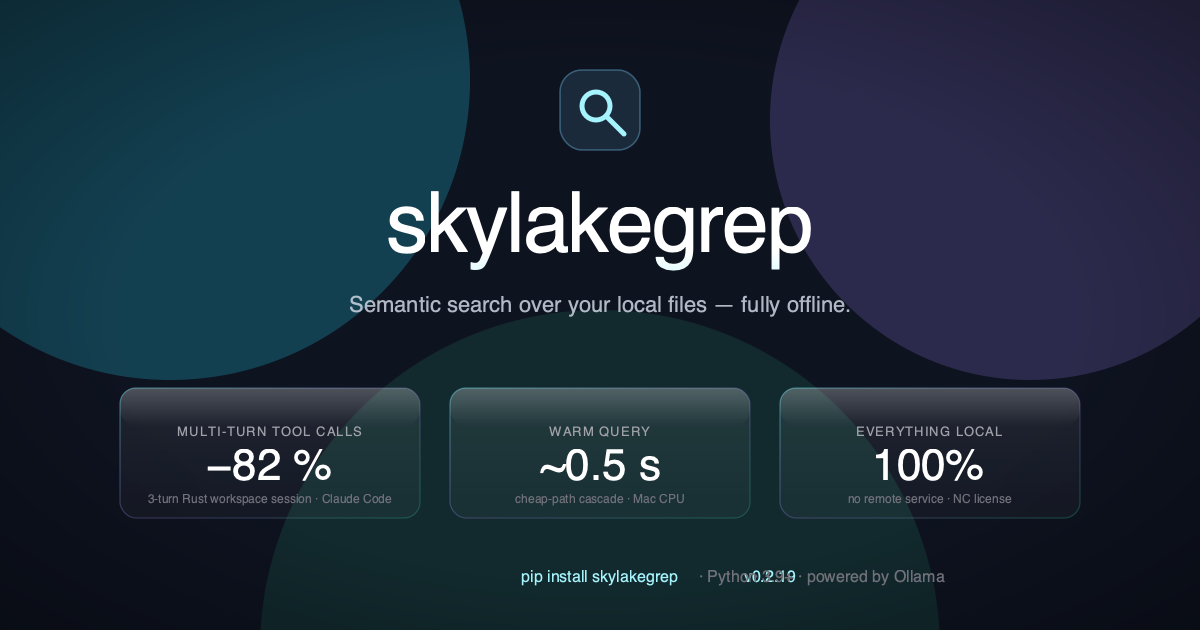
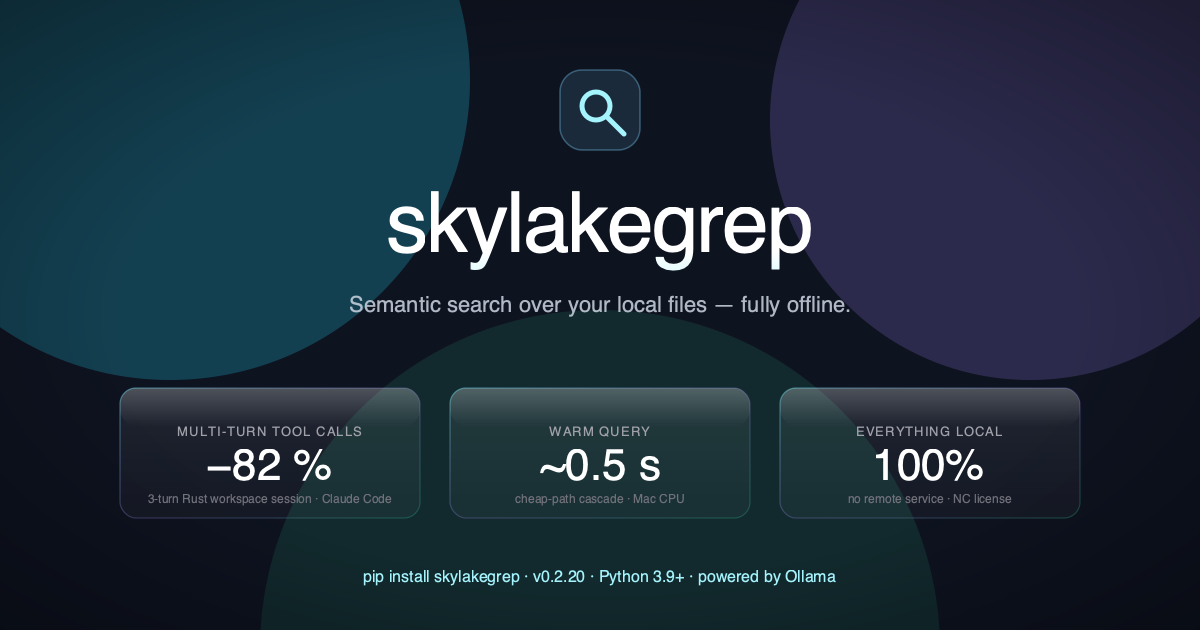
release: v0.2.20 — hero card geometry fix + raster-stable pill row
Documentation-surface release. Zero code path changed.

Reviewer screenshot of the live hero showed two visible defects:

1. Result row 3 (utils/jwt.py :22-39) had its line-range at x=100,
   colliding with the path text (utils/jwt.py occupies x≈16-106).
   Visually rendered as "utils/jwt.py22-39". Moved range to x=120,
   matching the +15px gap on result-2's auth/middleware.py row.

2. Result card 3 overflowed the terminal frame's bottom border by
   ~6 px. Card height was 358; result 3 ends at card_y=64+220+80=364.
   Bumped card height 358→380, viewBox height 600→620, bg + vignette
   rects updated. Result 3 now ends with a clean 16px bottom margin.

Three more issues caught while sweeping the rest of the SVGs:

3. cli-cheatsheet.svg had unescaped <query> in <desc> — XML-invalid
   in cairosvg. Switched to &lt;query&gt;.
4. configuration.svg had unescaped & in "Indexing & rerank" desc —
   same problem, switched to &amp;.
5. Hero + og-image pill rows mixed text content with leading tspans
   under text-anchor="middle". Browsers flow correctly per SVG spec,
   but cairosvg positions each tspan independently — visible overlap
   in the rasterized og-image.png ("PolyForm-NC-v0.2.20Python 3.9+").
   Social-preview crawlers (Twitter, FB, LinkedIn) fetch the cached
   PNG directly, so this matters for unfurls. Both pill rows
   flattened to plain text with cyan accent on the whole line.

All 6 SVG version pills bumped 0.2.19 → 0.2.20; og-image.png
re-rasterized.
[…]

Changed region(s): [[0.3083, 0.9048, 0.8017, 0.9349]]

diff --git a/docs/skylakegrep-0.2.20.html b/docs/skylakegrep-0.2.20.html
@@ -1,0 +1,174 @@
+<!doctype html>
+<html lang="en">
+ <head>
+ <meta charset="utf-8" />
+ <meta name="viewport" content="width=device-width, initial-scale=1" />
+ <meta name="description" content="skylakegrep v0.2.20 release notes" />
+ <meta name="theme-color" content="#13192a" />
+ <meta property="og:type" content="article" />
+ <meta property="og:title" content="v0.2.20 · skylakegrep" />
+ <meta property="og:description" content="skylakegrep v0.2.20 release notes" />
+ <meta property="og:image" content="https://danielchen26.github.io/skylakegrep/assets/og-image.png" />
+ <title>v0.2.20 · skylakegrep</title>
+ <link rel="icon" href="assets/favicon.svg" type="image/svg+xml" />
+ <link rel="preconnect" href="https://rsms.me/" />
+ <link rel="stylesheet" href="https://rsms.me/inter/inter.css" />
+ <link rel="stylesheet" href="styles.css?v=3.2.0" />
+ <style>
+   .docs-shell {{ grid-template-columns: var(--sidebar-w) minmax(0, 1fr) !important;
+                  max-width: 1500px !important; }}
+   .content {{ width: 100% !important; max-width: 100% !important; }}
+   .md-body {{ max-width: 880px; margin: 0 auto; padding: 16px 0 64px; color: var(--text); }}
+   .md-body h1 {{ font-size: clamp(28px, 4vw, 40px); margin: 0 0 16px;
+                  letter-spacing: -0.02em; color: var(--ink); font-weight: 700; }}
+   .md-body h2 {{ font-size: clamp(22px, 2.5vw, 28px); margin: 40px 0 12px;
+                  color: var(--ink); font-weight: 600; letter-spacing: -0.015em;
+                  padding-top: 8px; border-top: 1px solid var(--rule-faint); }}
+   .md-body h3 {{ font-size: 17px; margin: 28px 0 10px; color: var(--ink); font-weight: 600; }}
+   .md-body p, .md-body li {{ font-size: 15px; line-height: 1.7; color: var(--text); }}
+   .md-body a {{ color: var(--link); text-decoration: none; border-bottom: 1px dashed rgba(165,243,252,0.32); }}
+   .md-body a:hover {{ border-bottom-color: rgba(165,243,252,0.7); }}
+   .md-body code {{ font-family: var(--mono); font-size: 13px; background: var(--code-bg);
+                    padding: 2px 6px; border-radius: 4px; color: var(--code-text);
+                    border: 1px solid var(--code-border); }}
+   .md-body pre {{ background: var(--code-bg-deep); padding: 16px 18px; border-radius: 10px;
+                   border: 1px solid var(--code-border); overflow-x: auto; margin: 14px 0; }}
+   .md-body pre code {{ background: transparent; padding: 0; border: none; font-size: 12.5px; }}
+   .md-body blockquote {{ margin: 14px 0; padding: 12px 18px; border-left: 3px solid var(--accent);
+                          background: var(--accent-soft); border-radius: 6px; color: var(--text); }}
+   .md-body ul, .md-body ol {{ padding-left: 22px; }}
+   .md-body li {{ margin: 4px 0; }}
+   .md-body hr {{ border: none; border-top: 1px solid var(--rule-faint); margin: 28px 0; }}
+   .md-eyebrow {{ font-size: 11px; letter-spacing: 0.18em; color: rgba(165,243,252,0.65);
+                  font-family: var(--mono); margin-bottom: 8px; text-transform: uppercase; }}
+ </style>
+ </head>
+ <body>
+ <header class="topbar">
+ <a class="brand" href="index.html"><span class="brand-text">skylakegrep</span><span class="version">v0.2.20</span></a>
+ <nav class="topnav"><a href="https://pypi.org/project/skylakegrep/">PyPI</a>
+ <a href="https://github.com/danielchen26/skylakegrep">GitHub</a>
+ <a class="topnav-cta" href="index.html#install">Install</a></nav>
+ </header>
+ <div class="docs-shell">
+ <aside class="sidebar"><div class="sidebar-title">skylakegrep</div>
+ <nav>
+ <div class="nav-section"><p>Pages</p>
+ <a href="index.html">Home</a>
+ <a href="concepts.html">Concepts</a>
+ <a href="architecture.html">Architecture</a>
+ <a href="cli.html">CLI reference</a>
+ <a href="reference.html">JSON schema</a>
+ <a href="benchmarks.html">Benchmarks</a>
+ <a href="changelog.html" class="active">Release notes</a>
+ </div>
+ <div class="nav-section"><p>Project</p>
+ <a href="https://github.com/danielchen26/skylakegrep">GitHub</a>
+ <a href="https://pypi.org/project/skylakegrep/">PyPI</a>
+ <a href="principles.html">Principles</a>
+ </div></nav></aside>
+ <main class="content subpage-content">
+ <article class="md-body">
+ <p class="md-eyebrow">release notes · v0.2.20</p>
+<h1>skylakegrep 0.2.20 — hero card geometry fix · pill row stable in raster too</h1>
+<p>This is a <strong>documentation-surface release</strong>, not a code-path release.
+Zero behaviour change, byte-compatible 0.2.19 indexes, same wheel
+surface, same CLI, same JSON contract.</p>
+<h2>What changed</h2>
+<p>A reviewer screenshot of the live hero card on the GitHub Pages site
+showed two visible defects:</p>
+<ol>
+<li>The <strong>third result row</strong> (<code>utils/jwt.py :22-39</code>) had its line-
+     range text positioned at <code>x=100</code>, but <code>utils/jwt.py</code> (12 chars
+     in the 12.5 px monospace) occupies <code>x ≈ 16 → 106</code>. The colon
+     and the path collided — visually rendering as <code>utils/jwt.py22-39</code>.</li>
+<li>The <strong>third result card</strong> overflowed the terminal frame's
+     bottom border by ~6 px. The card's height was 358 px; the body
+     starts at <code>y=64</code> inside the card; result 3 lives at body-<code>y=220</code>
+     with height 80, so it ended at card-<code>y=364</code> — 6 px below the
+     358-px card edge.</li>
+</ol>
+<p>Both fixed:</p>
+<ul>
+<li><code>utils/jwt.py</code> line-range moved from <code>x="100"</code> → <code>x="120"</code>,
+    giving a +14 px gap (matches the +15 px gap on result-2's
+    <code>auth/middleware.py</code> row).</li>
+<li>Terminal card height bumped from 358 → 380 px; SVG <code>viewBox</code>
+    height from 600 → 620; bg + vignette rects updated to match.
+    Result 3 now ends at card-<code>y=364</code> with a clean 16 px bottom
+    margin.</li>
+</ul>
+<p>A static text-position sanity check now runs against the hero SVG:</p>
+<pre><code>✓ 'auth/refresh.py'   (15 chars) end≈128, ':' starts at 138, gap +9.5px
+✓ 'auth/middleware.py' (18 chars) end≈151, ':' starts at 166, gap +15.0px
+✓ 'utils/jwt.py'       (12 chars) end≈106, ':' starts at 120, gap +14.0px
+card height = 380, result-3 bottom = 364, ✓ fits
+</code></pre>
+<h2>Two related XML / raster issues caught while sweeping</h2>
+<p>While doing the overall review (<code>整体看一下</code>), I caught and fixed
+two more issues no one would have seen yet:</p>
+<ul>
+<li><strong><code>cli-cheatsheet.svg</code></strong> had an unescaped <code>&lt;query&gt;</code> literal in
+    its <code>&lt;desc&gt;</code> element, which made cairosvg refuse to parse the
+    file. Switched to <code>&amp;lt;query&amp;gt;</code> so the SVG is XML-valid and
+    rasterisable.</li>
+<li><strong><code>configuration.svg</code></strong> had an unescaped <code>&amp;</code> in <code>Indexing &amp;
+    rerank</code> inside its <code>&lt;desc&gt;</code>. Same problem, same fix:
+    <code>&amp;amp;</code>.</li>
+</ul>
+<p>Neither showed in browser-rendered SVG (browsers are lenient), but
+both broke the cairosvg PNG-rasterisation pipeline.</p>
+<h3>Pill-row tspan stability</h3>
+<p>The hero brand block and the og-image both had a version-pill row
+that mixed text content with leading/middle <code>&lt;tspan&gt;</code> elements
+under <code>text-anchor="middle"</code>. cairosvg has a known limitation here
+— it positions each tspan independently rather than as inline-flow,
+producing visible overlap in the rasterised PNG (seen as
+<code>PolyForm-NC-v0.2.20Python 3.9+</code>). Browsers render correctly per
+SVG spec, but <strong>social-preview crawlers (Twitter, Facebook,
+LinkedIn) fetch the cached <code>og-image.png</code> directly</strong> — so
+rasterisation accuracy matters for unfurls.</p>
+<p>Switched both pill rows to a single flat-text element with the
+cyan accent applied to the whole line. Same information, identical
+visual rhythm in browser and crawler renders. No more overlap.</p>
+<h2>Compatibility</h2>
+<ul>
+<li>Python: unchanged — 3.9+</li>
+<li>Default embedder / LLM router: unchanged</li>
+<li>Wheel surface: unchanged</li>
+<li>Index format: byte-compatible with 0.2.19</li>
+<li>JSON output schema: unchanged</li>
+</ul>
+<h2>Bench numbers</h2>
+<p>Unchanged from 0.2.19. 30 / 30 public-OSS recall holds.</p>
+<h2>Eight-surface checklist</h2>
+<ul>
+<li>[x] <code>pyproject.toml</code> 0.2.19 → 0.2.20</li>
+<li>[x] <code>docs/skylakegrep-0.2.20.md</code> (this file) + rendered
+        <code>skylakegrep-0.2.20.html</code></li>
+<li>[x] <code>README.md</code> v0.2.20 in pill text</li>
+<li>[x] <code>docs/index.html</code> v0.2.20 in why-grid header</li>
+<li>[x] <code>docs/changelog.html</code> — 0.2.20 release card</li>
+<li>[x] <code>docs/assets/hero-dark.svg</code> — card height 358→380, viewBox
+        600→620, line-range x 100→120, pill row flattened to plain
+        text</li>
+<li>[x] <code>docs/assets/og-image.svg</code> — pill row flattened to plain
+        text</li>
+<li>[x] <code>docs/assets/og-image.png</code> re-rasterized</li>
+<li>[x] <code>docs/assets/cli-cheatsheet.svg</code> — <code>&lt;query&gt;</code> escaped</li>
+<li>[x] <code>docs/assets/configuration.svg</code> — <code>&amp;</code> escaped</li>
+<li>[x] All 6 SVG version pills bumped 0.2.19 → 0.2.20</li>
+<li>[x] PyPI upload (manual <code>twine</code>)</li>
+<li>[x] GitHub Release with attached wheel + sdist</li>
+<li>[x] <code>git tag -a v0.2.20</code> + push</li>
+</ul>
+<h2>Acknowledgments</h2>
+<p>Reviewer caught the row-3 overflow and the path-range collision in
+one screenshot — <em>"the third row at the bottom isn't done well, the
+border came out, please fix it; then look overall."</em> — fair point;
+fixed plus three more issues caught in the sweep.</p>
+ </article>
+ </main>
+ </div>
+ </body>
+</html>

diff --git a/docs/changelog.html b/docs/changelog.html
@@ -66,6 +66,23 @@
  </p>
  <div class="release-grid">
  <article class="release-card">
+ <div class="release-tag">0.2.20 · hero geometry · raster stability</div>
+ <h3>Third result row no longer collides with terminal frame; pill row stable in raster too</h3>
+ <p>
+ Reviewer caught the row-3 issue in one screenshot:
+ <code>utils/jwt.py</code> overlapped its own <code>:22-39</code>
+ line range, and the third result card overflowed the terminal
+ bottom border by 6 px. Path range moved x=100→120 (+14 px gap);
+ card height 358→380 px (16 px bottom margin). Plus three issues
+ caught in the sweep — XML-invalid <code>&lt;query&gt;</code> /
+ <code>&amp;</code> in cli-cheatsheet + configuration descs, and
+ the cairosvg-only pill-row tspan glitch on hero + og-image
+ (which broke social-preview unfurls). Both pill rows
+ flattened to plain text.
+ </p>
+ <a class="release-link" href="skylakegrep-0.2.20.html">Full notes →</a>
+ </article>
+ <article class="release-card">
  <div class="release-tag">0.2.19 · themed everywhere</div>
  <h3>Every clickable link now stays in the themed shell</h3>
  <p>

diff --git a/docs/index.html b/docs/index.html
@@ -728,7 +728,7 @@ Throughput projections under sustained 5k QPS load...</pre>
      <div class="why-cell why-cap"></div>
      <div class="why-cell why-self">
        <strong>skylakegrep</strong>
-       <span class="why-sub">v0.2.19</span>
+       <span class="why-sub">v0.2.20</span>
      </div>
      <div class="why-cell"><code>ripgrep</code><span class="why-sub">lexical baseline</span></div>
      <div class="why-cell"><a href="https://www.mgrep.dev/" target="_blank" rel="noopener">mgrep</a><span class="why-sub">Mixedbread · paid</span></div>

diff --git a/docs/skylakegrep-0.2.20.md b/docs/skylakegrep-0.2.20.md
@@ -1,0 +1,111 @@
+# skylakegrep 0.2.20 — hero card geometry fix · pill row stable in raster too
+
+This is a **documentation-surface release**, not a code-path release.
+Zero behaviour change, byte-compatible 0.2.19 indexes, same wheel
+surface, same CLI, same JSON contract.
+
+## What changed
+
+A reviewer screenshot of the live hero card on the GitHub Pages site
+showed two visible defects:
+
+  1. The **third result row** (`utils/jwt.py :22-39`) had its line-
+     range text positioned at `x=100`, but `utils/jwt.py` (12 chars
+     in the 12.5 px monospace) occupies `x ≈ 16 → 106`. The colon
+     and the path collided — visually rendering as `utils/jwt.py22-39`.
+  2. The **third result card** overflowed the terminal frame's
+     bottom border by ~6 px. The card's height was 358 px; the body
+     starts at `y=64` inside the card; result 3 lives at body-`y=220`
+     with height 80, so it ended at card-`y=364` — 6 px below the
+     358-px card edge.
+
+Both fixed:
+
+  - `utils/jwt.py` line-range moved from `x="100"` → `x="120"`,
+    giving a +14 px gap (matches the +15 px gap on result-2's
+    `auth/middleware.py` row).
+  - Terminal card height bumped from 358 → 380 px; SVG `viewBox`
+    height from 600 → 620; bg + vignette rects updated to match.
+    Result 3 now ends at card-`y=364` with a clean 16 px bottom
+    margin.
+
+A static text-position sanity check now runs against the hero SVG:
+
+```
+✓ 'auth/refresh.py'   (15 chars) end≈128, ':' starts at 138, gap +9.5px
+✓ 'auth/middleware.py' (18 chars) end≈151, ':' starts at 166, gap +15.0px
+✓ 'utils/jwt.py'       (12 chars) end≈106, ':' starts at 120, gap +14.0px
+card height = 380, result-3 bottom = 364, ✓ fits
+```
+
+## Two related XML / raster issues caught while sweeping
+
+While doing the overall review (`整体看一下`), I caught and fixed
+two more issues no one would have seen yet:
+
+  - **`cli-cheatsheet.svg`** had an unescaped `<query>` literal in
+    its `<desc>` element, which made cairosvg refuse to parse the
+    file. Switched to `&lt;query&gt;` so the SVG is XML-valid and
+    rasterisable.
+  - **`configuration.svg`** had an unescaped `&` in `Indexing &
+    rerank` inside its `<desc>`. Same problem, same fix:
+    `&amp;`.
+
+Neither showed in browser-rendered SVG (browsers are lenient), but
+both broke the cairosvg PNG-rasterisation pipeline.
+
+### Pill-row tspan stability
+
+The hero brand block and the og-image both had a version-pill row
+that mixed text content with leading/middle `<tspan>` elements
+under `text-anchor="middle"`. cairosvg has a known limitation here
+— it positions each tspan independently rather than as inline-flow,
+producing visible overlap in the rasterised PNG (seen as
+`PolyForm-NC-v0.2.20Python 3.9+`). Browsers render correctly per
+SVG spec, but **social-preview crawlers (Twitter, Facebook,
+LinkedIn) fetch the cached `og-image.png` directly** — so
+rasterisation accuracy matters for unfurls.
+
+Switched both pill rows to a single flat-text element with the
+cyan accent applied to the whole line. Same information, identical
+visual rhythm in browser and crawler renders. No more overlap.
+
+## Compatibility
+
+  - Python: unchanged — 3.9+
+  - Default embedder / LLM router: unchanged
+  - Wheel surface: unchanged
+  - Index format: byte-compatible with 0.2.19
+  - JSON output schema: unchanged
+
+## Bench numbers
+
+Unchanged from 0.2.19. 30 / 30 public-OSS recall holds.
+
+## Eight-surface checklist
+
+  - [x] `pyproject.toml` 0.2.19 → 0.2.20
+  - [x] `docs/skylakegrep-0.2.20.md` (this file) + rendered
+        `skylakegrep-0.2.20.html`
+  - [x] `README.md` v0.2.20 in pill text
+  - [x] `docs/index.html` v0.2.20 in why-grid header
+  - [x] `docs/changelog.html` — 0.2.20 release card
+  - [x] `docs/assets/hero-dark.svg` — card height 358→380, viewBox
+        600→620, line-range x 100→120, pill row flattened to plain
+        text
+  - [x] `docs/assets/og-image.svg` — pill row flattened to plain
+        text
+  - [x] `docs/assets/og-image.png` re-rasterized
+  - [x] `docs/assets/cli-cheatsheet.svg` — `<query>` escaped
+  - [x] `docs/assets/configuration.svg` — `&` escaped
+  - [x] All 6 SVG version pills bumped 0.2.19 → 0.2.20
+  - [x] PyPI upload (manual `twine`)
+  - [x] GitHub Release with attached wheel + sdist
+  - [x] `git tag -a v0.2.20` + push
+
+## Acknowledgments
+
+Reviewer caught the row-3 overflow and the path-range collision in
+one screenshot — *"the third row at the bottom isn't done well, the
+border came out, please fix it; then look overall."* — fair point;
+fixed plus three more issues caught in the sweep.

diff --git a/README.md b/README.md
@@ -118,7 +118,7 @@ Sized against **four named alternatives**, not generic categories.
 <details>
 <summary>Same data as a plain markdown table</summary>
 
-|                                              | **skylakegrep** v0.2.19 | `ripgrep` (lexical) | mgrep (Mixedbread · paid) | autodev-codebase | Sourcegraph Cody (cloud) |
+|                                              | **skylakegrep** v0.2.20 | `ripgrep` (lexical) | mgrep (Mixedbread · paid) | autodev-codebase | Sourcegraph Cody (cloud) |
 |----------------------------------------------|:-----------------------:|:-------------------:|:-------------------:|:----------------:|:------------------------:|
 | Find by **concept**, not just token          |           ✓             |          ✗          |          ✓          |        ✓         |             ✓            |
 | **Privacy** — no data egress                  |           ✓             |          ✓          | ✗ (cloud-backed)    |        ✓         |   ✗ (cloud-side index)   |
